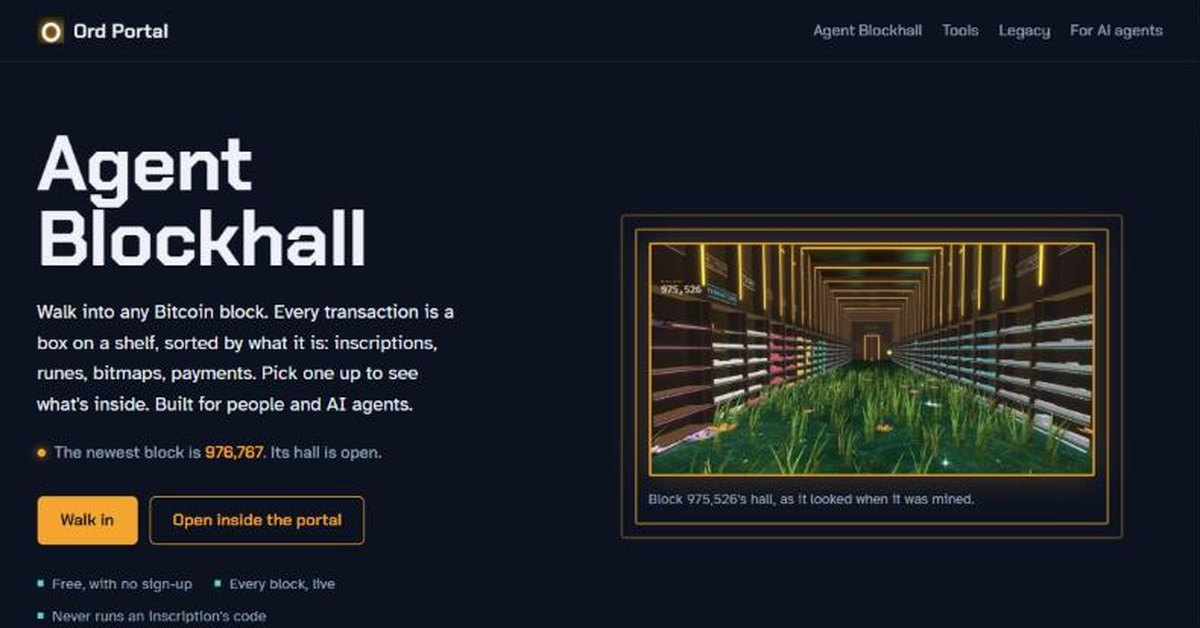
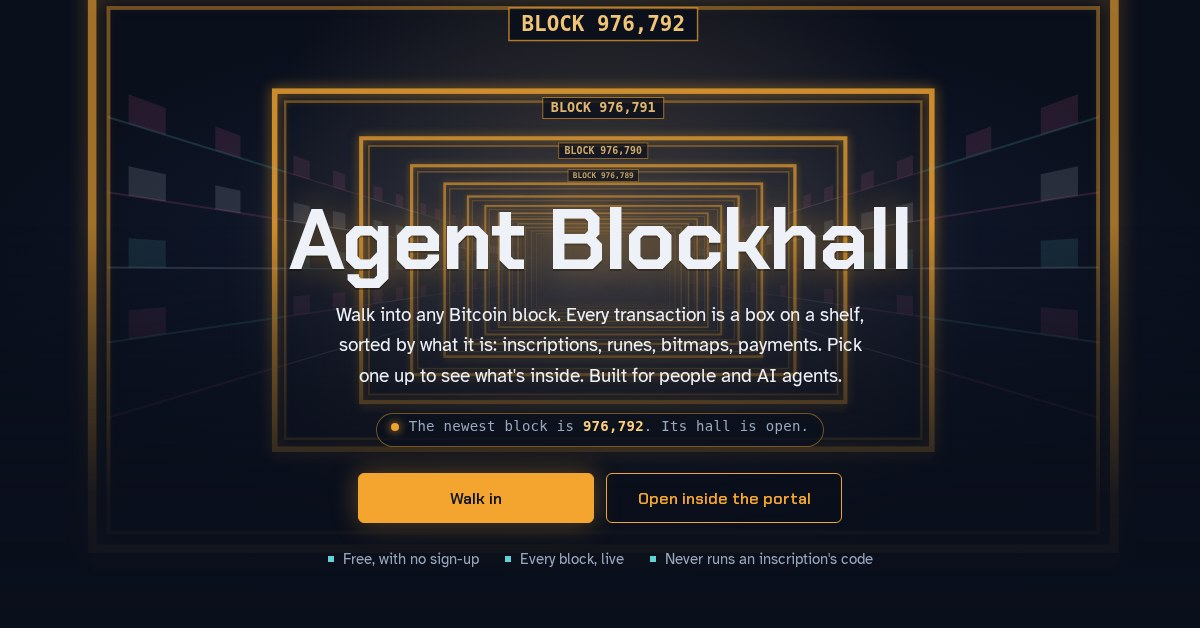
Share picture: the new front page, taken live on GitHub
Claude-Session: https://claude.ai/code/session_01JZqZ4BX5XFWptgJF31zCQ7

diff --git a/index.html b/index.html
@@ -228,14 +228,14 @@
 <meta property="og:image:type" content="image/jpeg">
 <meta property="og:image:width" content="1200">
 <meta property="og:image:height" content="628">
-<meta property="og:image:alt" content="The Ord Portal front page: Agent Blockhall, with a block hall&#x27;s shelves and grass, and the Walk in button">
+<meta property="og:image:alt" content="The Ord Portal front page: Agent Blockhall&#x27;s corridor of amber door frames, each one a real Bitcoin block with its number on its sign, and the Walk in button">
 <meta name="twitter:card" content="summary_large_image">
 <meta name="twitter:site" content="@BitmapPlotz">
 <meta name="twitter:creator" content="@BitmapPlotz">
 <meta name="twitter:title" content="Ord Portal">
 <meta name="twitter:description" content="Agent Blockhall: walk into any Bitcoin block in 3D, for people and AI agents. With Doge Cube for Dogecoin, free tools that check inscriptions and blocks against the chain itself, and older games by bitmap22.">
 <meta name="twitter:image" content="https://ordportal.com/brand/share-portal.jpg">
-<meta name="twitter:image:alt" content="The Ord Portal front page: Agent Blockhall, with a block hall&#x27;s shelves and grass, and the Walk in button">
+<meta name="twitter:image:alt" content="The Ord Portal front page: Agent Blockhall&#x27;s corridor of amber door frames, each one a real Bitcoin block with its number on its sign, and the Walk in button">
 <!-- share-and-search: end -->
 <script type="application/ld+json" id="ld-main">{"@context": "https://schema.org", "@type": "WebSite", "name": "Ord Portal", "url": "https://ordportal.com/", "description": "Agent Blockhall: walk into any Bitcoin block in 3D, for people and AI agents. With Doge Cube for Dogecoin, free tools that check inscriptions and blocks against the chain itself, and older games by bitmap22.", "author": {"@type": "Person", "name": "bitmap22", "sameAs": ["https://x.com/BitmapPlotz"]}, "inLanguage": "en", "hasPart": [{"@type": "VideoGame", "name": "Agent Blockhall", "url": "https://ordportal.com/block-cube.html"}]}</script>
 </head>
